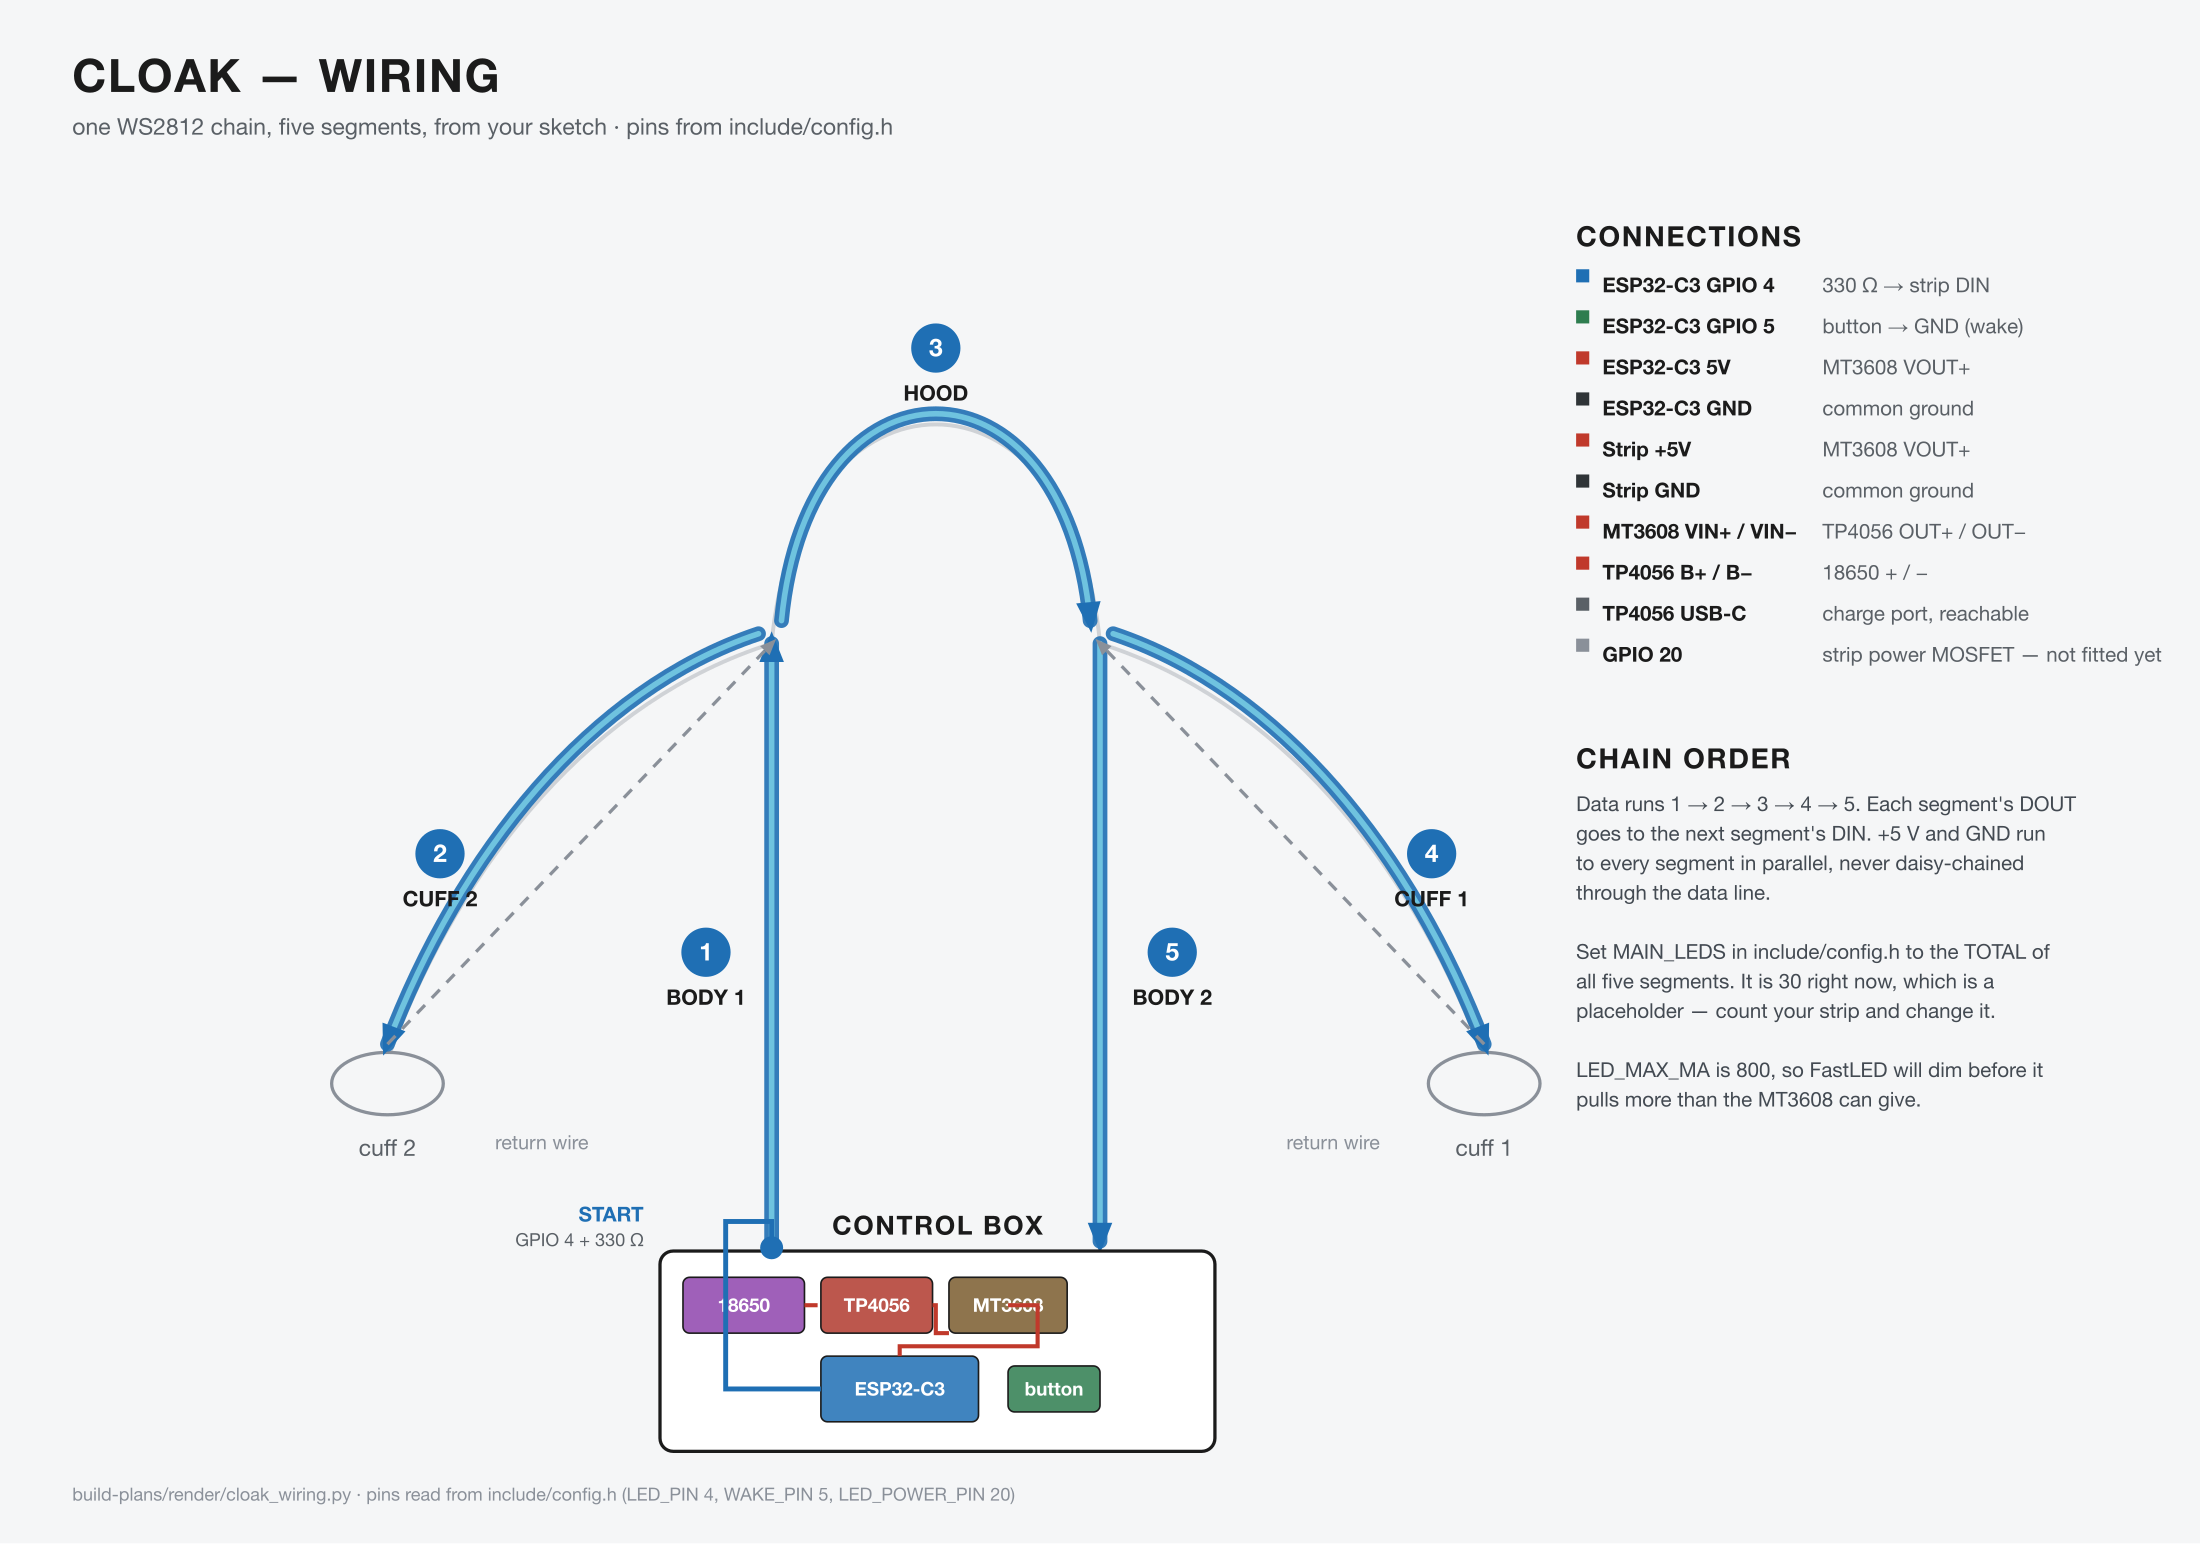
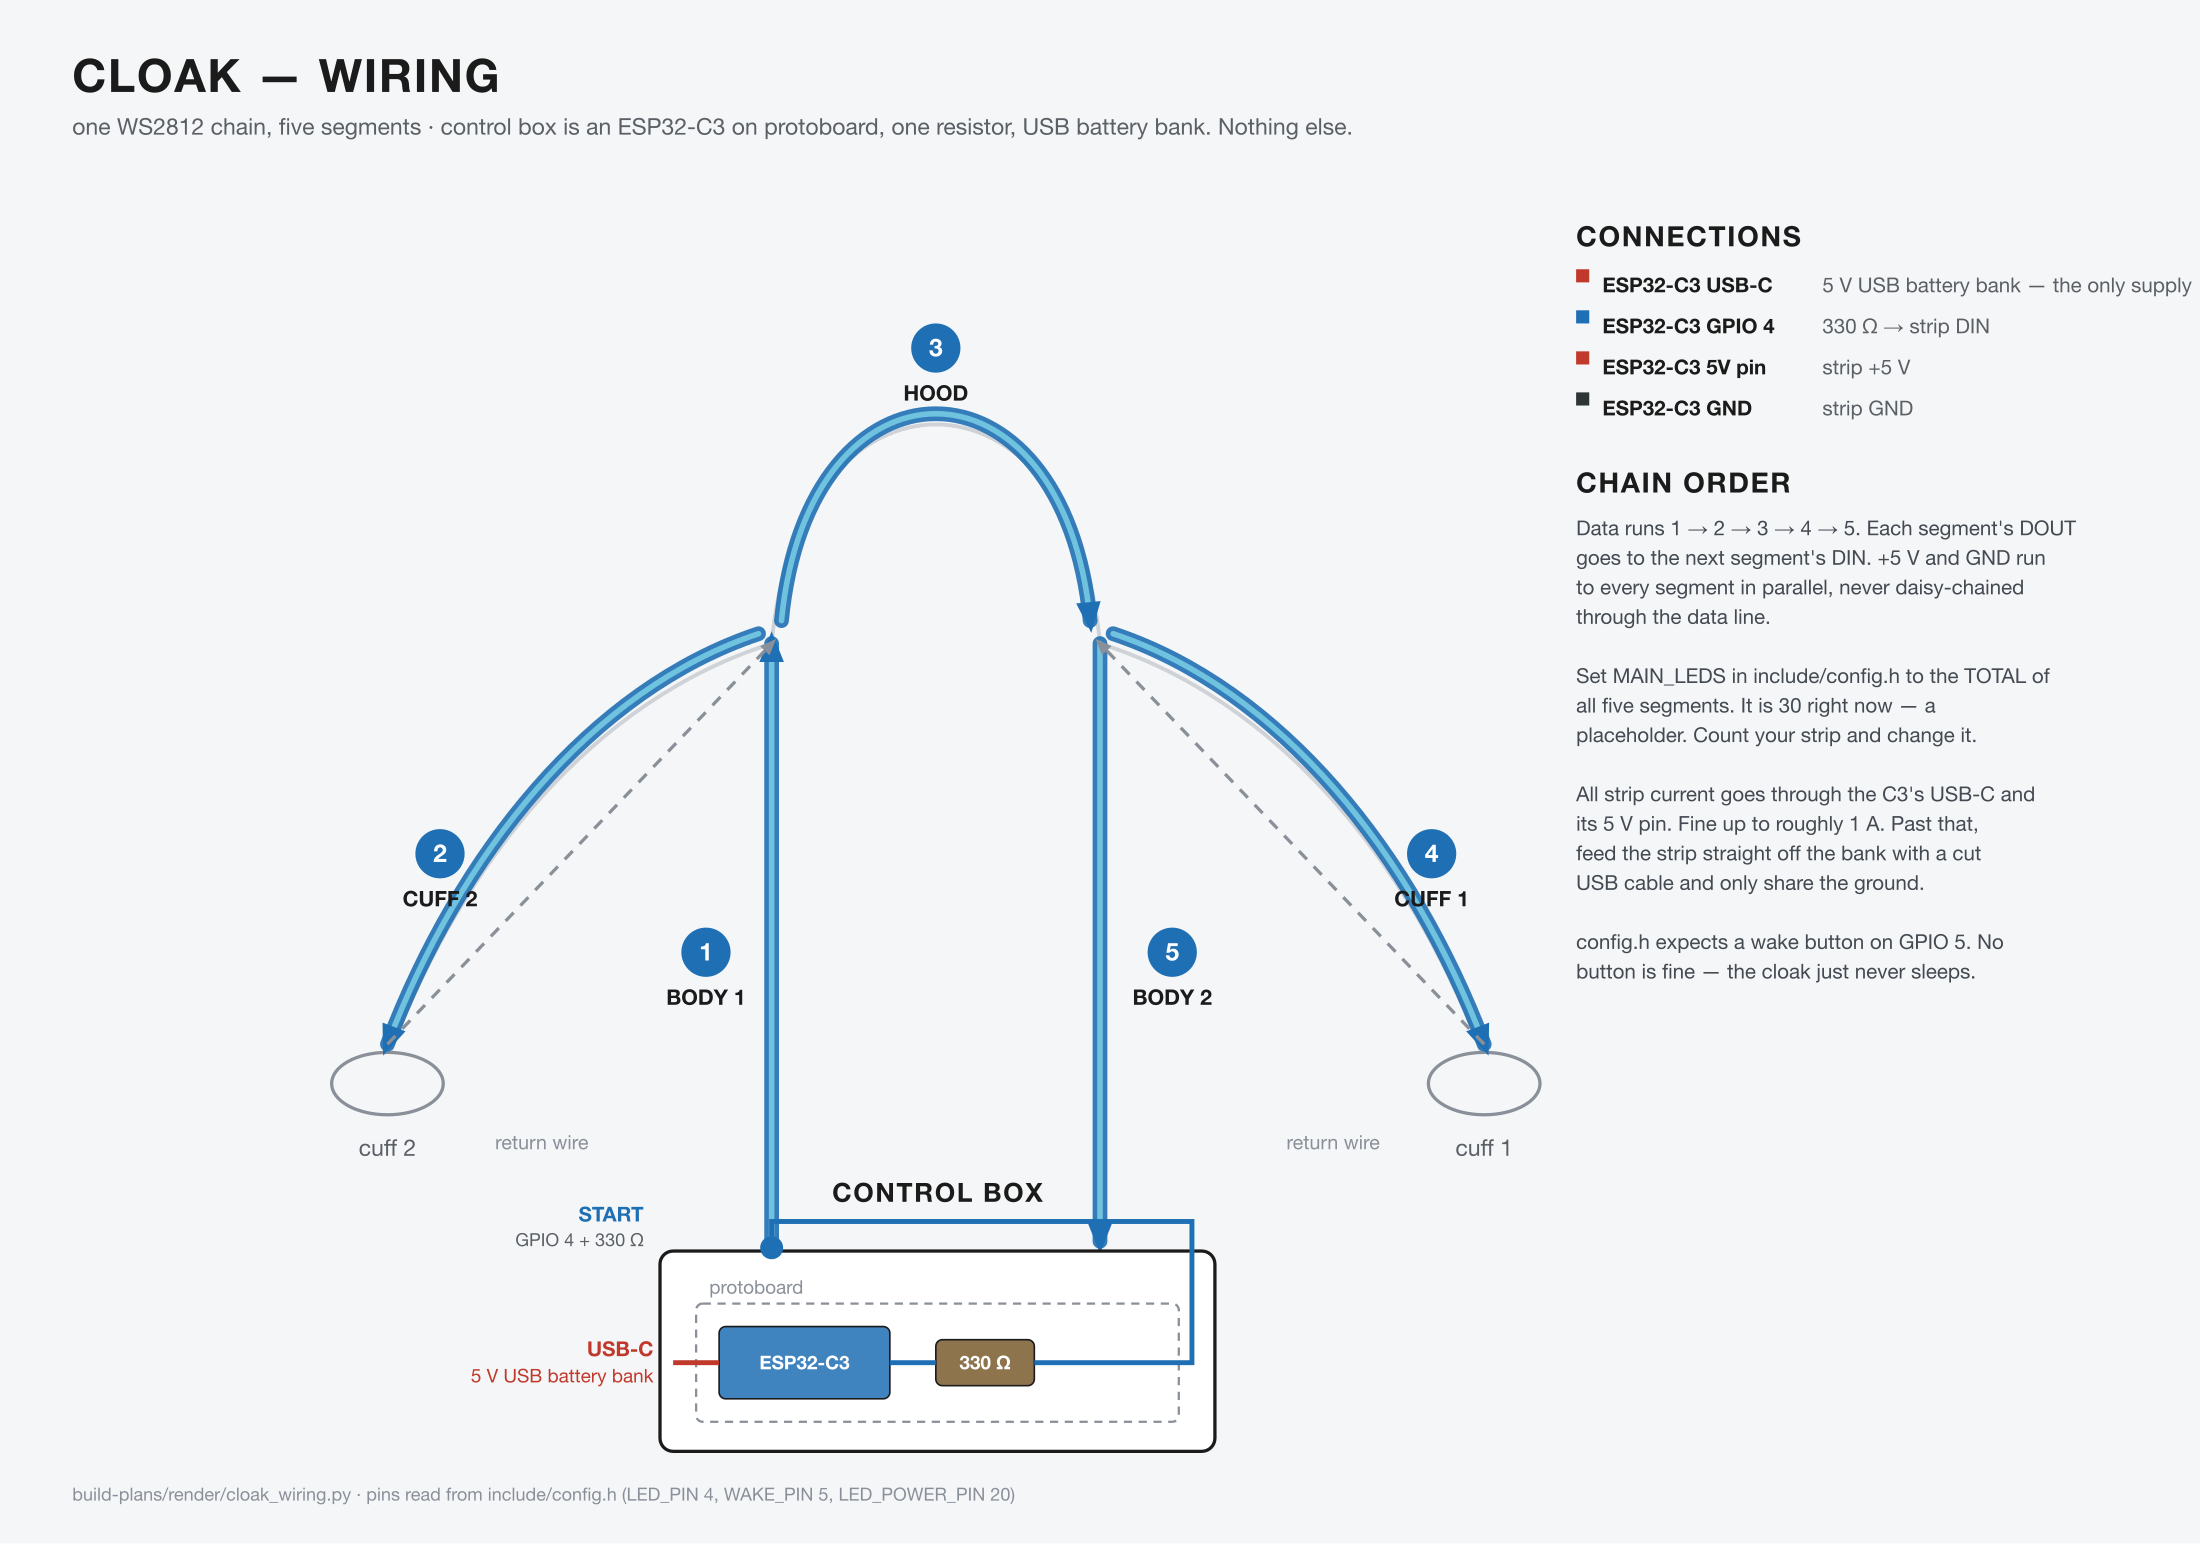
Strip the cloak diagram to what is actually in the control box
I put the disc's power chain on the cloak. It is not there. The cloak control
box is an ESP32-C3 on protoboard, one 330 ohm resistor, and a 5 V USB battery
bank into the board's USB-C. Removed the 18650, TP4056, MT3608 and the button,
and cut the connections table to the four lines that exist.

Added the one thing that follows from USB-bank power: all strip current now
goes through the C3's USB-C and its 5 V pin, which is fine to roughly 1 A. Past
that the strip wants feeding straight off the bank with a cut USB cable,
sharing only the ground.

diff --git a/build-plans/render/cloak_wiring.py b/build-plans/render/cloak_wiring.py
@@ -22,8 +22,8 @@ def main():
     sh = Sheet(W, H)
     sh.add(f'<rect width="{W}" height="{H}" fill="#f5f6f7"/>')
     sh.text(44, 56, "CLOAK — WIRING", 28, INK, anchor="start", weight="700", ls="1.0")
-    sh.text(44, 82, "one WS2812 chain, five segments, from your sketch  ·  pins from "
-            "include/config.h", 14, MUT, anchor="start")
+    sh.text(44, 82, "one WS2812 chain, five segments  ·  control box is an ESP32-C3 on protoboard, "
+            "one resistor, USB battery bank. Nothing else.", 14, MUT, anchor="start")
 
     sh.define(f'<marker id="ar" viewBox="0 0 10 10" refX="6" refY="5" markerWidth="5.5" '
               f'markerHeight="5.5" orient="auto"><path d="M 0,1 L 10,5 L 0,9 z" fill="{DATA}"/></marker>')
@@ -60,22 +60,24 @@ def main():
     x0, y0, x1, y1 = BOX
     sh.add(f'<rect x="{x0}" y="{y0}" width="{x1-x0}" height="{y1-y0}" rx="8" fill="#fff" '
            f'stroke="{INK}" stroke-width="2"/>')
-    sh.text((x0 + x1) / 2, y0 - 10, "CONTROL BOX", 16, INK, weight="700", ls="1.0")
-    parts = [("18650", x0 + 14, y0 + 16, 74, 34, "#8e44ad"),
-             ("TP4056", x0 + 98, y0 + 16, 68, 34, "#b03a2e"),
-             ("MT3608", x0 + 176, y0 + 16, 72, 34, "#7a5c2e"),
-             ("ESP32-C3", x0 + 98, y0 + 64, 96, 40, "#1f6fb4"),
-             ("button", x0 + 212, y0 + 70, 56, 28, BTN)]
+    sh.text((x0 + x1) / 2, y0 - 30, "CONTROL BOX", 16, INK, weight="700", ls="1.0")
+    parts = [("ESP32-C3", x0 + 36, y0 + 46, 104, 44, "#1f6fb4"),
+             ("330 Ω", x0 + 168, y0 + 54, 60, 28, "#7a5c2e")]
     for lab, px, py, pw, ph, col in parts:
         sh.add(f'<rect x="{px}" y="{py}" width="{pw}" height="{ph}" rx="4" fill="{col}" '
                f'fill-opacity="0.85" stroke="{INK}" stroke-width="1"/>')
         sh.text(px + pw / 2, py + ph / 2 + 4, lab, 11.5, "#fff", weight="700")
-    sh.add(f'<path d="M {x0+96},{y0+33} L {x0+88},{y0+33}" stroke="{PWR}" stroke-width="2.5"/>')
-    sh.add(f'<path d="M {x0+176},{y0+50} L {x0+168},{y0+50} L {x0+168},{y0+33} '
-           f'L {x0+166},{y0+33}" fill="none" stroke="{PWR}" stroke-width="2.5"/>')
-    sh.add(f'<path d="M {x0+212},{y0+33} L {x0+230},{y0+33} L {x0+230},{y0+58} '
-           f'L {x0+146},{y0+58} L {x0+146},{y0+64}" fill="none" stroke="{PWR}" stroke-width="2.5"/>')
-    sh.add(f'<path d="M {x0+98},{y0+84} L {x0+40},{y0+84} L {x0+40},{y0-18} '
+    # protoboard outline
+    sh.add(f'<rect x="{x0+22}" y="{y0+32}" width="{x1-x0-44}" height="72" rx="4" fill="none" '
+           f'stroke="{GREY}" stroke-width="1.4" stroke-dasharray="5,4"/>')
+    sh.text(x0 + 30, y0 + 26, "protoboard", 11.5, GREY, anchor="start")
+    # GPIO 4 out through the resistor
+    sh.add(f'<path d="M {x0+140},{y0+68} L {x0+168},{y0+68}" stroke="{DATA}" stroke-width="3"/>')
+    # USB-C in from the battery bank
+    sh.add(f'<path d="M {x0+36},{y0+68} L {x0+8},{y0+68}" stroke="{PWR}" stroke-width="3"/>')
+    sh.text(x0 - 4, y0 + 64, "USB-C", 12.5, PWR, anchor="end", weight="700")
+    sh.text(x0 - 4, y0 + 80, "5 V USB battery bank", 11.5, PWR, anchor="end")
+    sh.add(f'<path d="M {x0+228},{y0+68} L {x1-14},{y0+68} L {x1-14},{y0-18} '
            f'L 470,{y0-18} L 470,760" fill="none" stroke="{DATA}" stroke-width="3"/>')
     sh.add(f'<circle cx="470" cy="760" r="7" fill="{DATA}"/>')
     sh.text(392, 744, "START", 12.5, DATA, anchor="end", weight="700")
@@ -84,23 +86,17 @@ def main():
     # ---- the table
     tx, ty = 960, 150
     sh.text(tx, ty, "CONNECTIONS", 17, INK, anchor="start", weight="700", ls="1.0")
-    rows = [("ESP32-C3 GPIO 4", "330 Ω  →  strip DIN", DATA),
-            ("ESP32-C3 GPIO 5", "button  →  GND  (wake)", BTN),
-            ("ESP32-C3 5V", "MT3608 VOUT+", PWR),
-            ("ESP32-C3 GND", "common ground", GND),
-            ("Strip +5V", "MT3608 VOUT+", PWR),
-            ("Strip GND", "common ground", GND),
-            ("MT3608 VIN+ / VIN−", "TP4056 OUT+ / OUT−", PWR),
-            ("TP4056 B+ / B−", "18650 + / −", PWR),
-            ("TP4056 USB-C", "charge port, reachable", MUT),
-            ("GPIO 20", "strip power MOSFET — not fitted yet", GREY)]
+    rows = [("ESP32-C3 USB-C", "5 V USB battery bank — the only supply", PWR),
+            ("ESP32-C3 GPIO 4", "330 Ω  →  strip DIN", DATA),
+            ("ESP32-C3 5V pin", "strip +5 V", PWR),
+            ("ESP32-C3 GND", "strip GND", GND)]
     for i, (a, b, col) in enumerate(rows):
         y = ty + 28 + i * 25
         sh.add(f'<rect x="{tx}" y="{y-14}" width="8" height="8" fill="{col}"/>')
         sh.text(tx + 16, y, a, 12.5, INK, anchor="start", weight="700")
         sh.text(tx + 150, y, b, 12.5, MUT, anchor="start")
 
-    ny = ty + 318
+    ny = ty + 150
     sh.text(tx, ny, "CHAIN ORDER", 17, INK, anchor="start", weight="700", ls="1.0")
     for i, t in enumerate([
         "Data runs 1 → 2 → 3 → 4 → 5. Each segment's DOUT",
@@ -109,11 +105,16 @@ def main():
         "through the data line.",
         "",
         "Set MAIN_LEDS in include/config.h to the TOTAL of",
-        "all five segments. It is 30 right now, which is a",
-        "placeholder — count your strip and change it.",
+        "all five segments. It is 30 right now — a",
+        "placeholder. Count your strip and change it.",
         "",
-        "LED_MAX_MA is 800, so FastLED will dim before it",
-        "pulls more than the MT3608 can give.",
+        "All strip current goes through the C3's USB-C and",
+        "its 5 V pin. Fine up to roughly 1 A. Past that,",
+        "feed the strip straight off the bank with a cut",
+        "USB cable and only share the ground.",
+        "",
+        "config.h expects a wake button on GPIO 5. No",
+        "button is fine — the cloak just never sleeps.",
     ]):
         sh.text(tx, ny + 26 + i * 18, t, 12.5, "#434a52", anchor="start")
 
